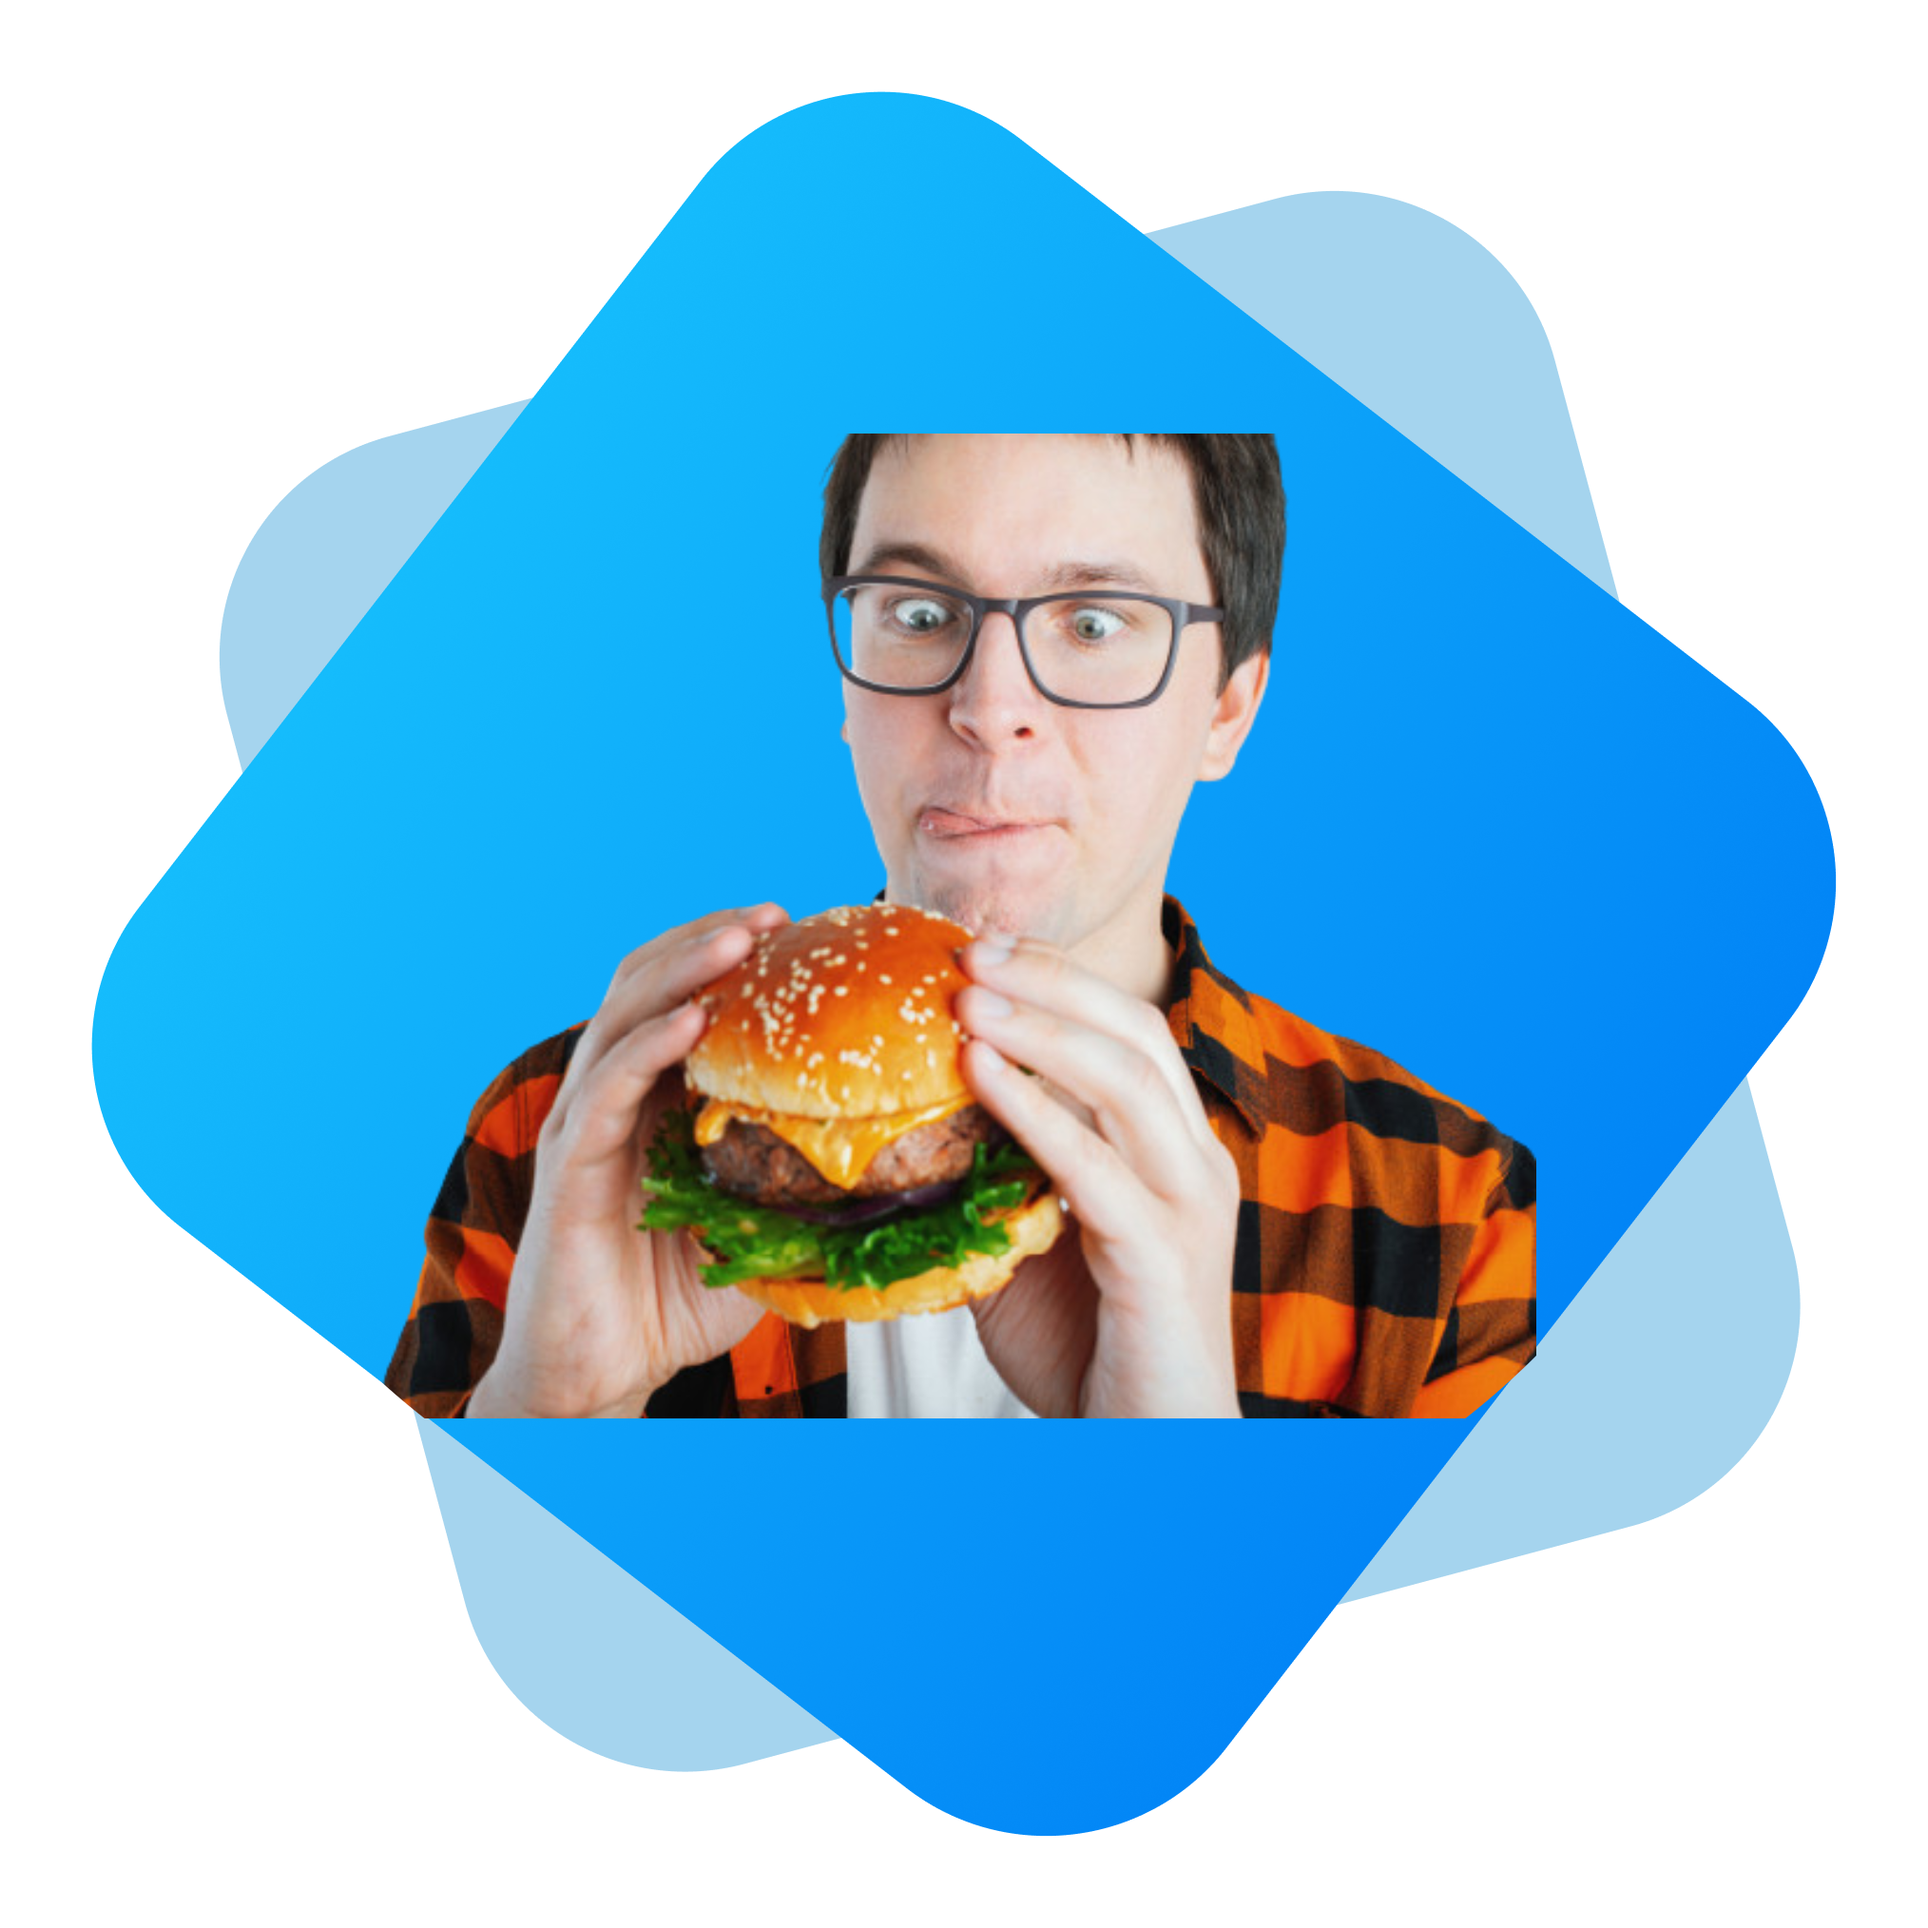
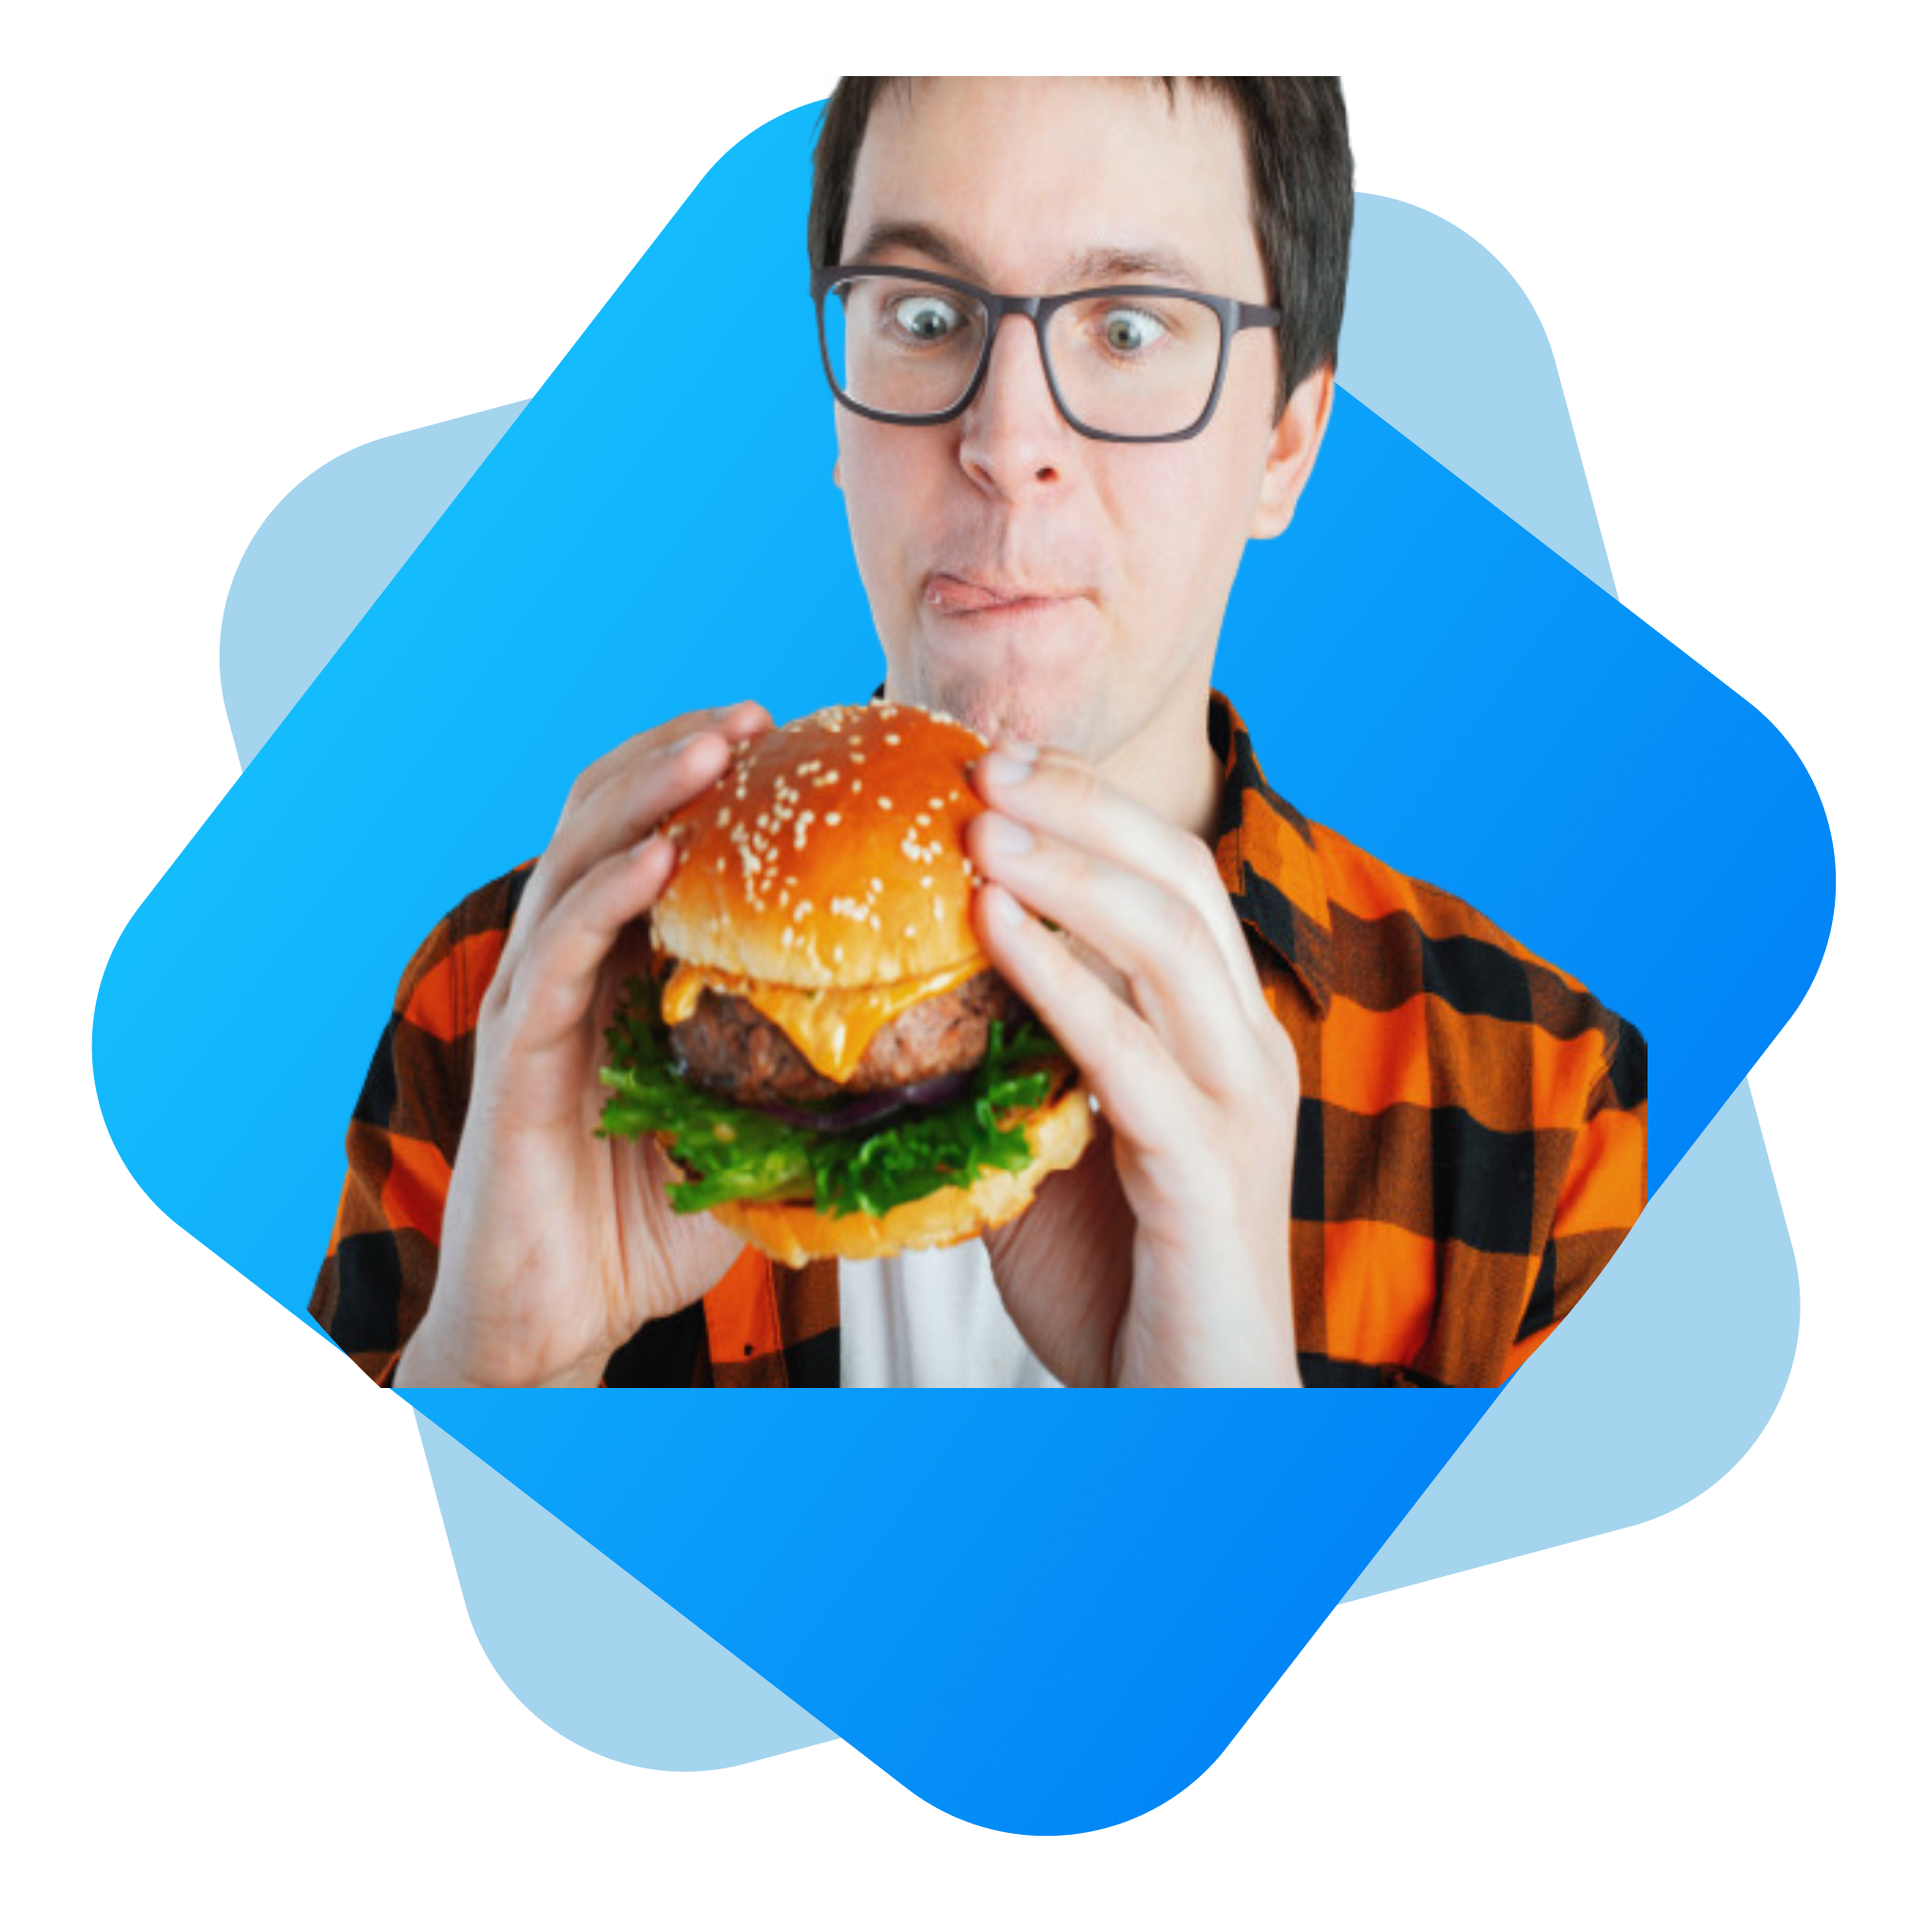
1st section done

Changed region(s): [[0.1553, 0.0311, 0.8698, 0.7456]]

diff --git a/index.html b/index.html
@@ -6,8 +6,19 @@
     <meta name="viewport" content="width=device-width, initial-scale=1.0">
     <title>Food Network</title>
     <link rel="stylesheet" href="style.css">
+    <link rel="preconnect" href="https://fonts.googleapis.com">
+    <link rel="preconnect" href="https://fonts.gstatic.com" crossorigin>
+    <link href="https://fonts.googleapis.com/css2?family=Fira+Sans&display=swap" rel="stylesheet">
 </head>
 <body>
-    
+    <section class="first_sec">
+        <div class="text1">
+            <h1>It’s <span>Burger</span> O’clock, Extra <span>Cheese</span>, please </h1>
+            <p class="p1">Burgers are good sources of protein, iron and vitamin B12, they come with a lot of problems, according 
+            to nutrition experts—particularly the fatty meat, sugary ketchup and refined grain buns.</p>
+            <a target="_blank" href="https://www.facebook.com/tasbiulolive">Order Food</a>
+        </div>
+        <div class="pic1"><img src="images/pic1.png" alt="1st Picture"></div>
+    </section>
 </body>
 </html>

diff --git a/style.css b/style.css
@@ -1,0 +1,49 @@
+body{
+    font-family: 'Fira Sans', sans-serif;
+    margin: 0;
+}
+
+.first_sec{
+    display: flex;
+    background-image:url(images/shapes/Frame\ 57.jpg)
+}
+h1{
+    font-size: 60px;
+    color: rgb(184, 174, 174);
+}
+span{
+    color: rgb(150, 70, 33);
+}
+.p1{
+    font-size: 20px;
+    color: gray;
+    margin: 10px 0px;
+}
+
+.text1{
+    width: 45%;
+    float: left;
+    padding: 5px;
+    margin-left: 5%;
+    padding-left: 2%;
+
+}
+.pic1{
+    width: 45%;
+    float: left;
+    margin-left: 5%;
+    padding-left: 2%;
+}
+.pic1 img{
+    width: 100%;
+}
+a{
+    text-decoration: none;
+    background-image: linear-gradient(orange, tomato);
+    color: white;
+    font-weight: 200;
+    font-size: 20px;
+    padding: 12px 25px;
+    border-radius: 20px;
+}
+
